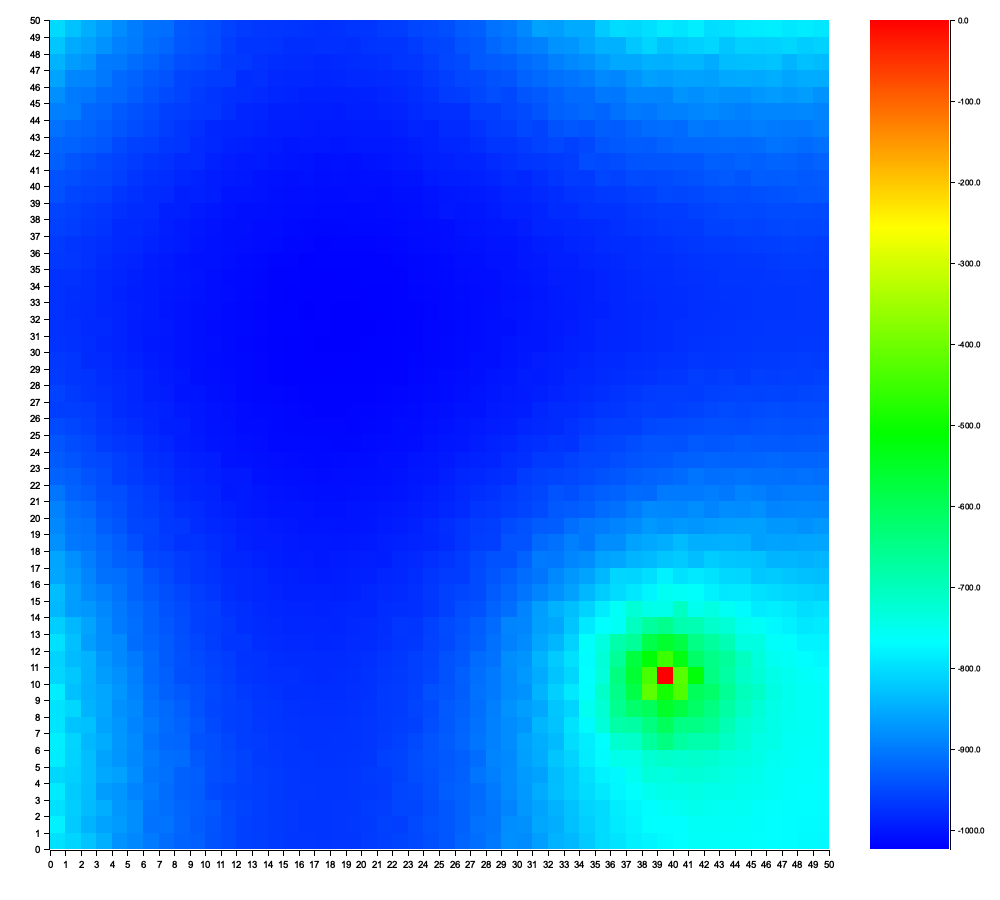
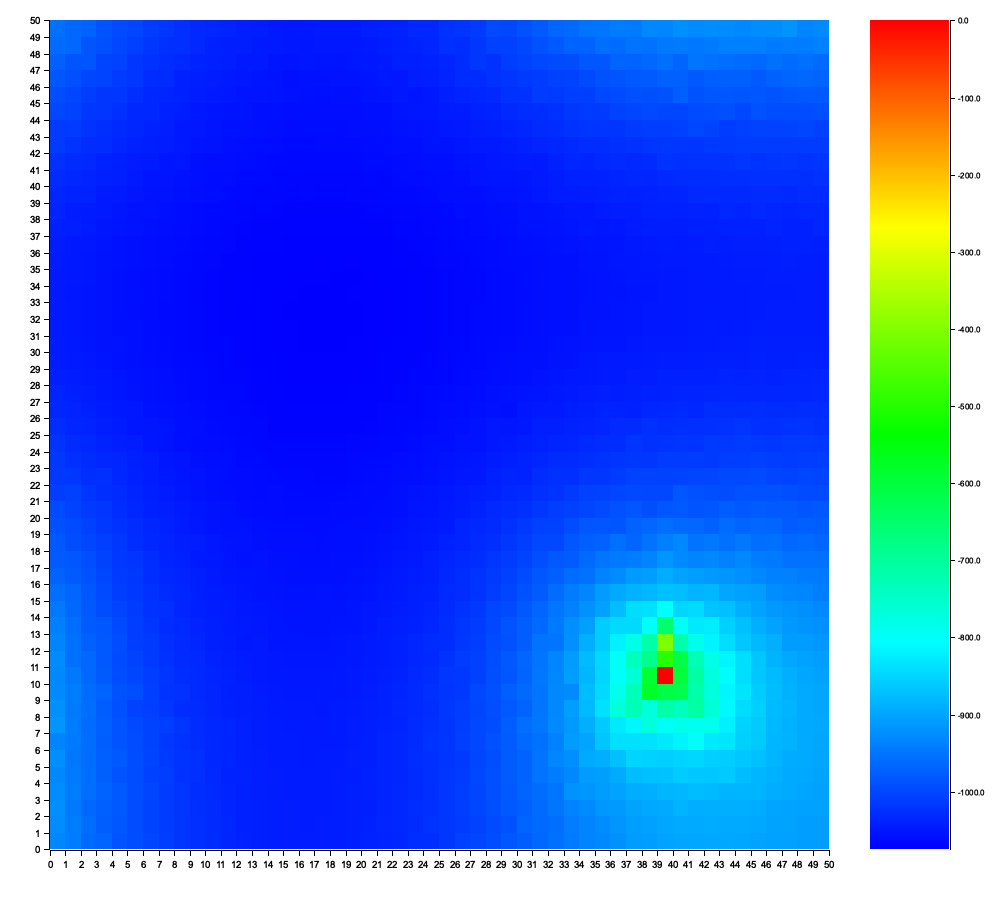
fix: Python本とアクションを同じものに変更

diff --git a/src/main.rs b/src/main.rs
@@ -35,7 +35,7 @@ fn main() {
     }
 
     // アクションの生成
-    let actions = generate_actions(T_SIZE);
+    let actions = generate_actions();
 
     // 実行時間の計測開始
     let start = Instant::now();
@@ -74,38 +74,29 @@ fn main() {
 }
 
 // アクションを生成する関数
-fn generate_actions(t_size: usize) -> Vec<Action> {
+fn generate_actions() -> Vec<Action> {
     let mut actions = Vec::new();
 
-    // 各角度に対する前進と側方移動のアクションを生成
-    for i in 0..t_size {
-        let angle = i as f64 * 2.0 * PI / t_size as f64;
-        actions.push(Action {
-            delta_x: angle.cos(),
-            delta_y: angle.sin(),
-            delta_rot: 0.0,
-        });
-    }
+    // 右回転
+    actions.push(Action {
+        delta_x: 0.0,
+        delta_y: 0.0,
+        delta_rot: -2.0,
+    });
 
-    // 対角方向のアクションを追加
-    let diagonal_moves = vec![(1.0, 1.0), (-1.0, 1.0), (1.0, -1.0), (-1.0, -1.0)];
-    for &(dx, dy) in &diagonal_moves {
-        actions.push(Action {
-            delta_x: dx,
-            delta_y: dy,
-            delta_rot: 0.0,
-        });
-    }
+    // 前進
+    actions.push(Action {
+        delta_x: 1.0,
+        delta_y: 0.0,
+        delta_rot: 0.0,
+    });
 
-    // 回転アクションを生成
-    let delta_rotations = vec![PI / 4.0, -PI / 4.0, PI / 2.0];
-    for &delta_rot in &delta_rotations {
-        actions.push(Action {
-            delta_x: 0.0,
-            delta_y: 0.0,
-            delta_rot,
-        });
-    }
+    // 左回転
+    actions.push(Action {
+        delta_x: 0.0,
+        delta_y: 0.0,
+        delta_rot: 2.0,
+    });
 
     actions
 }
@@ -125,9 +116,12 @@ fn compute_value(
 
     // ランダムにNUM_SAMPLES回サンプリング
     for _ in 0..NUM_SAMPLES {
+        // ランダムにアクションを選択
         let action_index = rng.gen_range(0..actions.len());
         let action = &actions[action_index];
         let angle = theta as f64 * 2.0 * PI / T_SIZE as f64;
+
+        // 移動後の状態を計算
         let ni = (i as isize
             + (action.delta_x * angle.cos() - action.delta_y * angle.sin()).round() as isize)
             as usize;
@@ -139,13 +133,16 @@ fn compute_value(
             + T_SIZE as isize)
             % T_SIZE as isize) as usize;
 
+        // グリッドの範囲内に収める
         let ni = ni.min(SIZE - 1).max(0);
         let nj = nj.min(SIZE - 1).max(0);
 
+        // 遷移後の状態における報酬と価値の和を計算
         total_value += rewards[(ni, nj)] + GAMMA * values[(ni, nj, ntheta)];
 
         valid_samples += 1;
     }
 
+    // 遷移前の状態の価値を遷移後の報酬と価値の期待値と等しくする
     total_value / valid_samples as f64
 }
